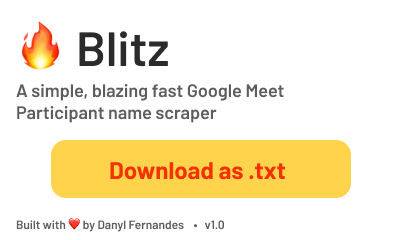
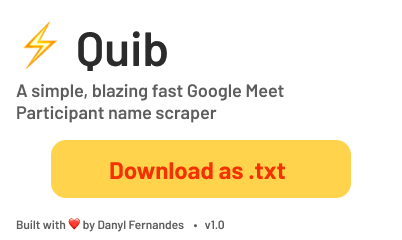
:construction: Change branding

Changed region(s): [[0.1791, 0.1167, 0.4179, 0.2917], [0.0299, 0.0875, 0.1493, 0.2917]]

diff --git a/popup.html b/popup.html
@@ -8,7 +8,7 @@
     <link rel="preconnect" href="https://fonts.googleapis.com">
     <link rel="preconnect" href="https://fonts.gstatic.com" crossorigin>
     <link href="https://fonts.googleapis.com/css2?family=Barlow:wght@600;700&display=swap" rel="stylesheet">
-    <title>Blitz</title>
+    <title>Quib</title>
     <style>
         html,
         body {
@@ -76,7 +76,7 @@
 
 <body>
     <div>
-        <h1 class="title">🔥 Blitz</h1>
+        <h1 class="title">⚡ Quib</h1>
         <p class="subtitle">
             A simple, blazing fast Google Meet Participant name scraper
         </p>

diff --git a/README.md b/README.md
@@ -2,7 +2,7 @@
   <img align="left" src="assets/logo_128.png" width="120"/> 
 </p>
 
-## Blitz
+## Quib
 A simple<sup> [1](#%EF%B8%8F-citations) </sup>, blazing fast Google Meet Participant name scraper
 
 <br>
